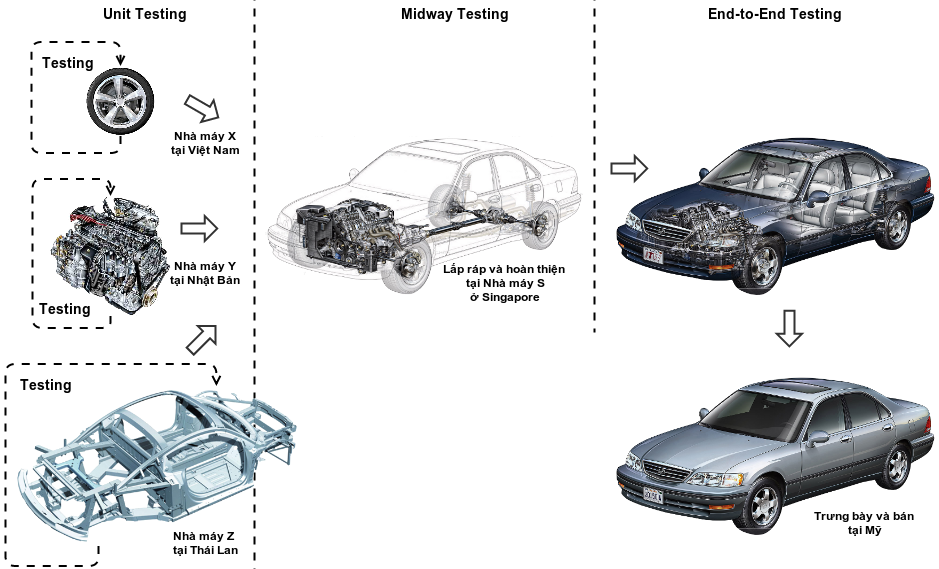
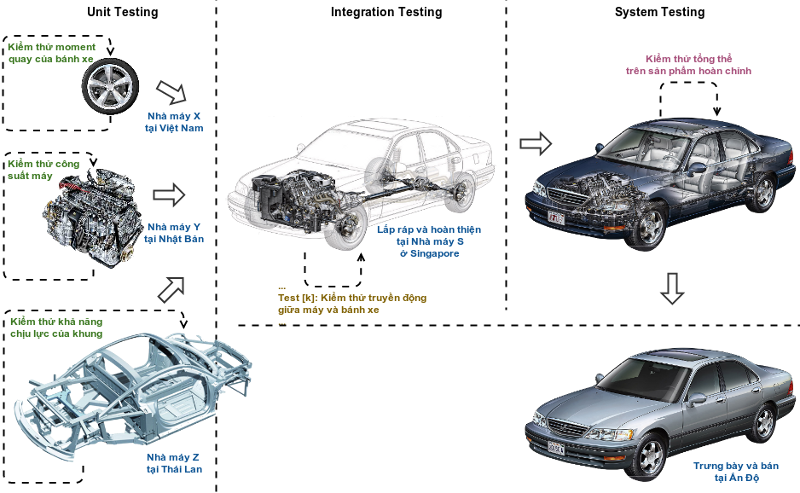
update the article:tong-quan-ve-kiem-thu-trong-angularjs

diff --git a/javascript/angularjs/tong-quan-ve-kiem-thu-trong-angularjs.html b/javascript/angularjs/tong-quan-ve-kiem-thu-trong-angularjs.html
@@ -117,7 +117,7 @@
             </header>
 
         <article class="summer-post-content post tag-simple">
-            <div><p>Một trong những yếu tố mang đến thành công cho AngualrJS chính là khả năng áp dụng kiểm thử (Testing) vào quá trình phát triển các ứng dụng SPA. AngularJS được hỗ trợ bởi nền tảng kiểm thử Karma, kết hợp với các công cụ Mocha, Chai và Sanon, đã tạo nên một bộ giải pháp hoàn chỉnh để thực hiện các phạm vi kiểm thử khác nhau, bao gồm Unit Testing, Midway Testing và End-to-End Testing.</p>
+            <div><p>Một trong những yếu tố mang đến thành công cho AngularJS chính là khả năng áp dụng kiểm thử (Testing) vào quá trình phát triển các ứng dụng SPA. AngularJS hỗ trợ thực hiện các phạm vi kiểm thử khác nhau, bao gồm kiểm thử đơn vị (Unit Testing), kiểm thử từng phần (Midway Testing) và kiểm thử đầu-cuối (End-to-End Testing). Bài viết này giới thiệu sơ lược các khái niệm có liên quan đến kiểm thử trong AngularJS.</p>
 
 <section>
   <header>
@@ -128,6 +128,11 @@
   <li><a href="#ti-sao-phi-kim-th-ng-dng">Tại sao phải kiểm thử ứng dụng?</a>    <ul>
       <li><a href="#v-d-v-kim-th-trong-sn-xut-xe-hi">Ví dụ về kiểm thử trong sản xuất xe hơi</a></li>
       <li><a href="#kim-th-trong-xy-dng-phn-mm">Kiểm thử trong xây dựng phần mềm</a></li>
+    </ul>
+  </li>
+  <li><a href="#cc-loi-kim-th-trong-angularjs">Các loại kiểm thử trong AngularJS</a>    <ul>
+      <li><a href="#kim-th-thnh-phn-unit-testing">Kiểm thử thành phần (Unit Testing)</a></li>
+      <li><a href="#kim-th-u-cui-end-to-end-testing">Kiểm thử đầu-cuối (End-to-End Testing)</a></li>
     </ul>
   </li>
 </ul>
@@ -145,11 +150,13 @@
 
 <p>Giả sử hãng xe hơi Atoyot thiết lập một dây chuyển sản xuất xe hơi bao gồm nhiều nhà máy sản xuất linh kiện và lắp ráp đạt tại nhiều quốc gia như sau:</p>
 
-<p><img src="/blog/media/e164079a-679b-4037-ac73-712e35755327/car_factory_process.png" alt="Ví dụ minh họa về kiểm thử trong sản xuất xe hơi" /></p>
+<p><img src="/blog/media/e164079a-679b-4037-ac73-712e35755327/car_factory_process_without_testing.png" alt="Ví dụ minh họa về quy trình sản xuất xe hơi đơn giản" /></p>
 
 <p>Trong hình minh họa ở trên, ta có thể thấy các bộ phận của ô tô có thể được sản xuất tại các nhà máy ở các quốc gia khác nhau. Các bộ phận này được tạo ra tuân theo các thông số thiết kế, do đó có thể được lắp ghép thành một chiếc ô tô hoàn chỉnh. Tuy nhiên trong thực tế, mọi hoạt động đều có khả năng tiềm tàng và phát sinh những sai sót. Điều gì xảy ra nếu sai sót của một số bộ phận chỉ bị phát hiện khi đã chuyển đến nhà máy lắp ráp hoặc thậm chí sau khi đã đến tay người dùng? Dễ thấy rằng những sai sót chậm phát hiện này sẽ tiêu tốn nhiều thời gian và chi phí cho việc phát hiện, vận chuyển, thay thế khắc phục, thu hồi sản phẩm, đền bù nếu có thiệt hại xảy ra. Thậm chí, uy tín của hãng bị ảnh hưởng nghiêm trọng.</p>
 
 <p>Chính vì vậy, các hãng sản xuất đều xây dựng quy trình sản xuất chặt chẽ, trong đó việc kiểm thử được thực hiện <em>càng sớm càng tốt</em> và áp dụng <em>trong suốt quá trình</em> sản xuất và lắp ráp sản phẩm. </p>
+
+<p><img src="/blog/media/e164079a-679b-4037-ac73-712e35755327/car_factory_process_checked.png" alt="Ví dụ minh họa về kiểm thử trong sản xuất xe hơi" /></p>
 
 <h3 id="kim-th-trong-xy-dng-phn-mm">Kiểm thử trong xây dựng phần mềm</h3>
 
@@ -157,16 +164,36 @@
 
 <p>Theo tính toán của NIST (National Institute of Standards and Technology), chi phí khắc phục lỗi trong phần mềm theo thời gian sẽ gia tăng theo cấp độ mũ.</p>
 
-<p><img src="/blog/media/e164079a-679b-4037-ac73-712e35755327/the-cost-of-fixing-vulnerabilities-rises-exponentially.png" alt="Chi phí khắc phục lỗi tăng theo cấp độ mũ" /></p>
+<p><img src="/blog/media/e164079a-679b-4037-ac73-712e35755327/the-cost-of-fixing-software-bugs.png" alt="Chi phí khắc phục lỗi tăng theo cấp độ mũ" /></p>
 
 <p>Việc phát hiện sớm lỗi trong phần mềm có ý nghĩa hết sức quan trọng trong việc đảm bảo tiến độ cũng như làm giảm rủi ro và chi phí phát triển. Có nhiều hướng tiếp cận trong kiểm thử phần mềm, trong đó phổ biến nhất là phân loại kiểm thử phần mềm theo cấp độ, bao gồm:</p>
 
 <ul>
-  <li>Kiểm thử đơn vị (Unit Testing): còn gọi là kiểm thử thành phần (Component Testing) là phương pháp kiểm thử chú trọng vào việc kiểm tra chức năng của một “đơn vị” chức năng chương trình (thông thường là một hàm, tuy nhiên trong một số mô hình, chẳng hạn AngularJS, “đơn vị” có thể là Controller, Directive hoặc Service). Kiểm thử đơn vị được thực hiện bởi chính lập trình viên tạo nên chức năng chương trình đó.</li>
-  <li>Kiểm thử tích hợp (Integration Testing): là dạng kiểm thử định hướng vào việc kiểm tra tính đúng đắn của giao tiếp thông qua giao diện giữa các thành phần của phần mềm. Kiểm thử tích hợp thông thường cũng được thực hiện bởi lập trình viên.</li>
-  <li>Kiểm thử hệ thống (System Testing): còn gọi là kiểm thử 2 đầu (End-to-End Testing), là dạng kiểm thử toàn diện phần mềm đã được lắp ghép hoàn chỉnh để kiểm tra xem các yêu cầu phần mềm có được đáp ứng đầy đủ hay không? Kiểm thử hệ thống thường do đội QA (Quality Assurance) đảm trách.</li>
-  <li>Kiểm thử chấp nhận (Acceptance Testing): là dạng kiểm thử được thực hiện tại nơi triển khai thực tế của sản phẩm, do người đặt hàng thực hiện nhằm đảm bảo sản phẩm tiếp nhận đáp ứng được đầy đủ các yêu cầu đã đề ra. Trong kiểm thử phần mềm, các bộ kiểm thử chấp nhận thường do khách hàng phát triển, hoặc do khách hàng cộng tác với đơn vị xây dựng tạo ra.</li>
+  <li><strong>Kiểm thử đơn vị (Unit Testing)</strong> còn gọi là kiểm thử thành phần (Component Testing) là phương pháp kiểm thử chú trọng vào việc kiểm tra chức năng của một “đơn vị” chức năng chương trình (thông thường là một hàm, tuy nhiên trong một số mô hình, chẳng hạn AngularJS, “đơn vị” có thể là Controller, Directive hoặc Service). Kiểm thử đơn vị được thực hiện bởi chính lập trình viên tạo nên chức năng chương trình đó.</li>
+  <li><strong>Kiểm thử tích hợp (Integration Testing)</strong>: là dạng kiểm thử định hướng vào việc kiểm tra tính đúng đắn của giao tiếp thông qua giao diện giữa các thành phần của phần mềm. Kiểm thử tích hợp thông thường cũng được thực hiện bởi lập trình viên.</li>
+  <li><strong>Kiểm thử hệ thống (System Testing)</strong>: còn gọi là kiểm thử 2 đầu (End-to-End Testing), là dạng kiểm thử toàn diện phần mềm đã được lắp ghép hoàn chỉnh để kiểm tra xem các yêu cầu phần mềm có được đáp ứng đầy đủ hay không? Kiểm thử hệ thống thường do đội QA (Quality Assurance) đảm trách.</li>
+  <li><strong>Kiểm thử chấp nhận (Acceptance Testing)</strong>: là dạng kiểm thử được thực hiện tại nơi triển khai thực tế của sản phẩm, do người đặt hàng thực hiện nhằm đảm bảo sản phẩm tiếp nhận đáp ứng được đầy đủ các yêu cầu đã đề ra. Trong kiểm thử phần mềm, các bộ kiểm thử chấp nhận thường do khách hàng phát triển, hoặc do khách hàng cộng tác với đơn vị xây dựng tạo ra.</li>
 </ul>
+
+<h2 id="cc-loi-kim-th-trong-angularjs">Các loại kiểm thử trong AngularJS</h2>
+
+<p>Trong quá trình áp dụng phương pháp TDD vào phát triển phần mềm, các dự án luôn có xu hướng tự động hóa quá trình kiểm thử (Automation Testing). Các dự án phát triển bằng AngularJS cũng không ngoại lệ. Với vai trò là khung ứng dụng, AngularJS cung cấp các công cụ kiểm thử nhằm hỗ trợ người phát triển áp dụng các phương pháp kiểm thử cũng như tự động hóa quá trình kiểm thử được dễ dàng và nhanh chóng. AngularJS cung cấp 2 loại kiểm thử chính: Unit Testing và End-to-End Testing. Mặc dù còn một loại nữa là Midway Testing là một trường hợp của End-to-End Testing, tuy nhiên trong thực tế loại này ít được sử dụng. </p>
+
+<p><img src="/blog/media/e164079a-679b-4037-ac73-712e35755327/unit-testing-vs-e2e-testing.jpg" alt="So sánh sự khác nhau giữa Unit Testing và End-to-End Testing" /></p>
+
+<h3 id="kim-th-thnh-phn-unit-testing">Kiểm thử thành phần (Unit Testing)</h3>
+
+<p>Unit testing hoạt động dựa trên nguyên tắc chia tách và cô lập các đơn vị chương trình để có thể kiểm thử chức năng của từng đơn vị chương trình một cách độc lập với những phần còn lại. Để dễ dàng hình dung, chúng ta có thể thấy trong sản xuất xe hơi, mỗi một bộ phận khi sản xuất đều được kiểm thử riêng rẽ trong một môi trường giả lập thực tế. Hình ảnh bên dưới minh họa việc kiểm thử bánh xe hơi:</p>
+
+<p><img src="/blog/media/e164079a-679b-4037-ac73-712e35755327/car-wheel-testing.jpg" alt="Ví dụ về kiểm thử thành phần trong sản xuất xe hơi" /></p>
+
+<h3 id="kim-th-u-cui-end-to-end-testing">Kiểm thử đầu-cuối (End-to-End Testing)</h3>
+
+<p>End-to-End testing thực hiện kiểm thử hoạt động tổng thể của ứng dụng bằng cách kiểm thử quá trình thực hiện chức năng từ đầu đến cuối quá trình xử lý, đi từ giao diện đến giao tiếp với nguồn dữ liệu (truy cập dịch vụ web hoặc vùng lưu trữ cục bộ). Có thể hình dung một kiểm thử End-to-End là quá trình thực hiện một chức năng của ứng dụng được một Robot thao tác trên một trình duyệt ẩn theo một kịch bản do chúng ta lập trình sẵn. Xét trong phạm vi ứng dụng phát triển bằng AngularJS, End-to-End Testing chính là System Testing.</p>
+
+<p>Liên hệ với ví dụ về kiểm thử trong ngành sản xuất xe hơi, quá trình kiểm thử đầu-cuối (End-to-End Testing) tương ứng với công đoạn kiểm soát chất lượng sản phẩm sau khi lắp ráp như trong hình ảnh minh họa bên dưới:</p>
+
+<p><img src="/blog/media/e164079a-679b-4037-ac73-712e35755327/car-end-to-end-testing.png" alt="Ví dụ về kiểm thử đầu-cuối một chiếc xe hơi" /></p>
 
 
             </div>

diff --git a/about/index.html b/about/index.html
@@ -121,7 +121,7 @@
 
 <article class="summer-page-content">
                     <div>
-<p>Đây là trang blog của Acegik. Hiện tại có 28 bài viết, trong 20 danh mục, gồm khoảng 35042 từ, mất khoảng 193 phút để đọc. Hiện có <a href="/blog/featured">28 bài viết nổi bật</a>, bạn nên ưu tiên đọc trước. Bài viết gần đây nhất là <a href="/blog/javascript/angularjs/tong-quan-ve-kiem-thu-trong-angularjs.html" data-toggle="tooltip" title="Read more about Tổng quan về kiểm thử phần mềm trong AngualrJS">“Tổng quan về kiểm thử phần mềm trong AngualrJS”</a> được công bố vào ngày <time datetime="2014-11-14T00:00:00+07:00" class="post-time">14 Nov 2014</time>. Trang web được cập nhật gần đây nhất vào lúc 07:39 AM <a href="http://en.wikipedia.org/wiki/Coordinated_Universal_Time" title="Temps Universel Coordonné">UTC</a>, ngày Sunday, 16 Nov 2014.</p>
+<p>Đây là trang blog của Acegik. Hiện tại có 28 bài viết, trong 20 danh mục, gồm khoảng 35441 từ, mất khoảng 195 phút để đọc. Hiện có <a href="/blog/featured">28 bài viết nổi bật</a>, bạn nên ưu tiên đọc trước. Bài viết gần đây nhất là <a href="/blog/javascript/angularjs/tong-quan-ve-kiem-thu-trong-angularjs.html" data-toggle="tooltip" title="Read more about Tổng quan về kiểm thử phần mềm trong AngualrJS">“Tổng quan về kiểm thử phần mềm trong AngualrJS”</a> được công bố vào ngày <time datetime="2014-11-14T00:00:00+07:00" class="post-time">14 Nov 2014</time>. Trang web được cập nhật gần đây nhất vào lúc 06:27 PM <a href="http://en.wikipedia.org/wiki/Coordinated_Universal_Time" title="Temps Universel Coordonné">UTC</a>, ngày Friday, 21 Nov 2014.</p>
 
 <div class="chart" id="chartdiv" style="width: 100%; height: 500px; margin-bottom: 20px;"></div>
 <figcaption>Thống kê về các bài viết</figcaption>

diff --git a/index.html b/index.html
@@ -141,7 +141,7 @@
                 </h3>
             </header>
             <section class="summer-post-excerpt">
-                <p>Một trong những yếu tố mang đến thành công cho AngualrJS chính là khả năng áp dụng kiểm thử (Testing) vào quá trình phát triển các ứng dụng SPA. AngularJS được hỗ trợ bởi nền tảng kiểm thử Karma, kết...</p>
+                <p>Một trong những yếu tố mang đến thành công cho AngularJS chính là khả năng áp dụng kiểm thử (Testing) vào quá trình phát triển các ứng dụng SPA. AngularJS hỗ trợ thực hiện các phạm vi kiểm thử khác...</p>
             </section>
             
                 <div class="summer-index-post-tags">
